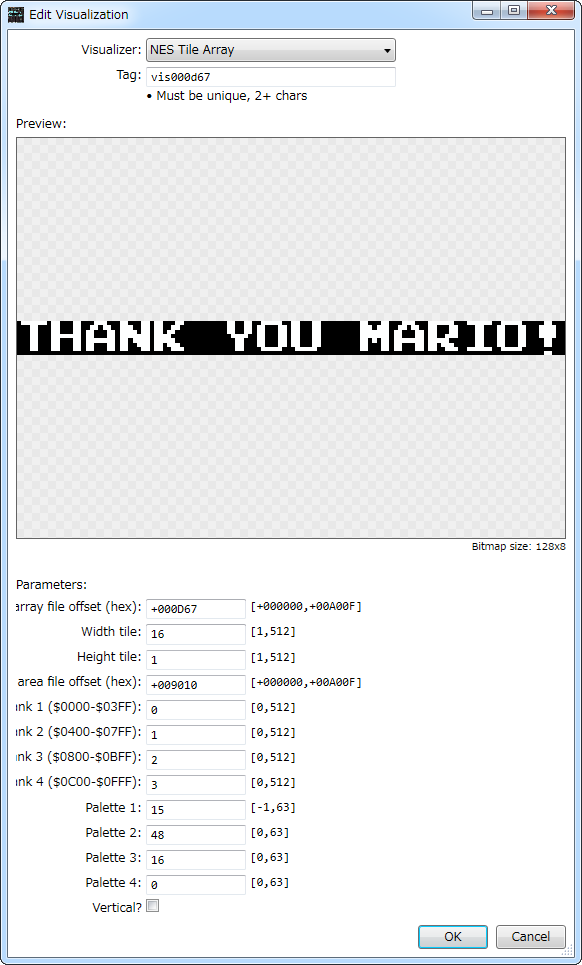
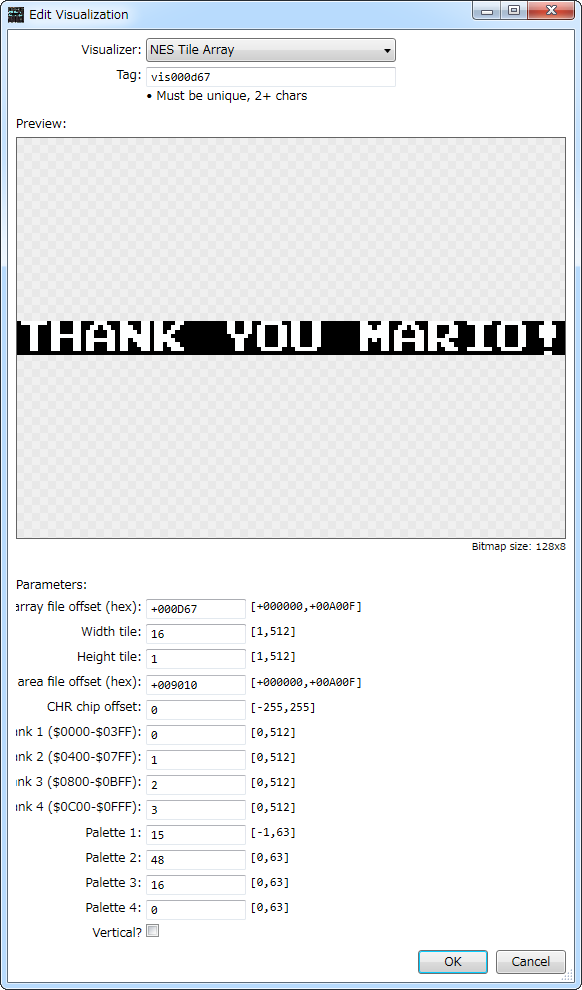
Update VisNesTileArray, Add 'chip offset' parameter

diff --git a/Extension Scripts/NES/VisNesTileArray.cs b/Extension Scripts/NES/VisNesTileArray.cs
@@ -45,6 +45,7 @@ namespace RuntimeData.Nintendo{
 		private const string	P_WIDTH		= "width";
 		private const string	P_HEIGHT	= "height";
 		private const string	P_CHROFFSET	= "chroffset";
+		private const string	P_CHIPOFFSET	= "chipoffset";
 		private const string	P_CHRBANK1	= "cgrbank1";
 		private const string	P_CHRBANK2	= "cgrbank2";
 		private const string	P_CHRBANK3	= "cgrbank3";
@@ -109,6 +110,7 @@ namespace RuntimeData.Nintendo{
 						new VisParamDescr("Width tile",				P_WIDTH,	typeof(int),  1, 512, 0, 16),
 						new VisParamDescr("Height tile",			P_HEIGHT,	typeof(int),  1, 512, 0, 16),
 						new VisParamDescr("CHR area file offset (hex)",		P_CHROFFSET,	typeof(int),  0, 0x00FFFFFF, VisParamDescr.SpecialMode.Offset, chrOffset),
+						new VisParamDescr("CHR chip offset",			P_CHIPOFFSET,	typeof(int),  -255, 255, 0, 0),
 						new VisParamDescr("CHR bank 1 ($0000-$03FF)",		P_CHRBANK1,	typeof(int),  0, 512, 0, 0),
 						new VisParamDescr("CHR bank 2 ($0400-$07FF)",		P_CHRBANK2,	typeof(int),  0, 512, 0, 1),
 						new VisParamDescr("CHR bank 3 ($0800-$0BFF)",		P_CHRBANK3,	typeof(int),  0, 512, 0, 2),
@@ -139,6 +141,7 @@ namespace RuntimeData.Nintendo{
 			int	width		= Util.GetFromObjDict(parms, P_WIDTH,		1);
 			int	height		= Util.GetFromObjDict(parms, P_HEIGHT,		1);
 			int	chroffset	= Util.GetFromObjDict(parms, P_CHROFFSET,	0);
+			int	chipoffset	= Util.GetFromObjDict(parms, P_CHIPOFFSET,	0);
 			int	chrbank1	= Util.GetFromObjDict(parms, P_CHRBANK1,	0);
 			int	chrbank2	= Util.GetFromObjDict(parms, P_CHRBANK2,	1);
 			int	chrbank3	= Util.GetFromObjDict(parms, P_CHRBANK3,	2);
@@ -210,7 +213,7 @@ namespace RuntimeData.Nintendo{
 						// Vertical
 						address	= tileoffset + (col * height) + row;
 					}
-					byte	tile	= this.mFileData[address];
+					byte	tile	= (byte)(this.mFileData[address] + chipoffset);
 					this.GenerateTile(bitmap, mapper, (uint)row, (uint)col, tile);
 				}
 			}
